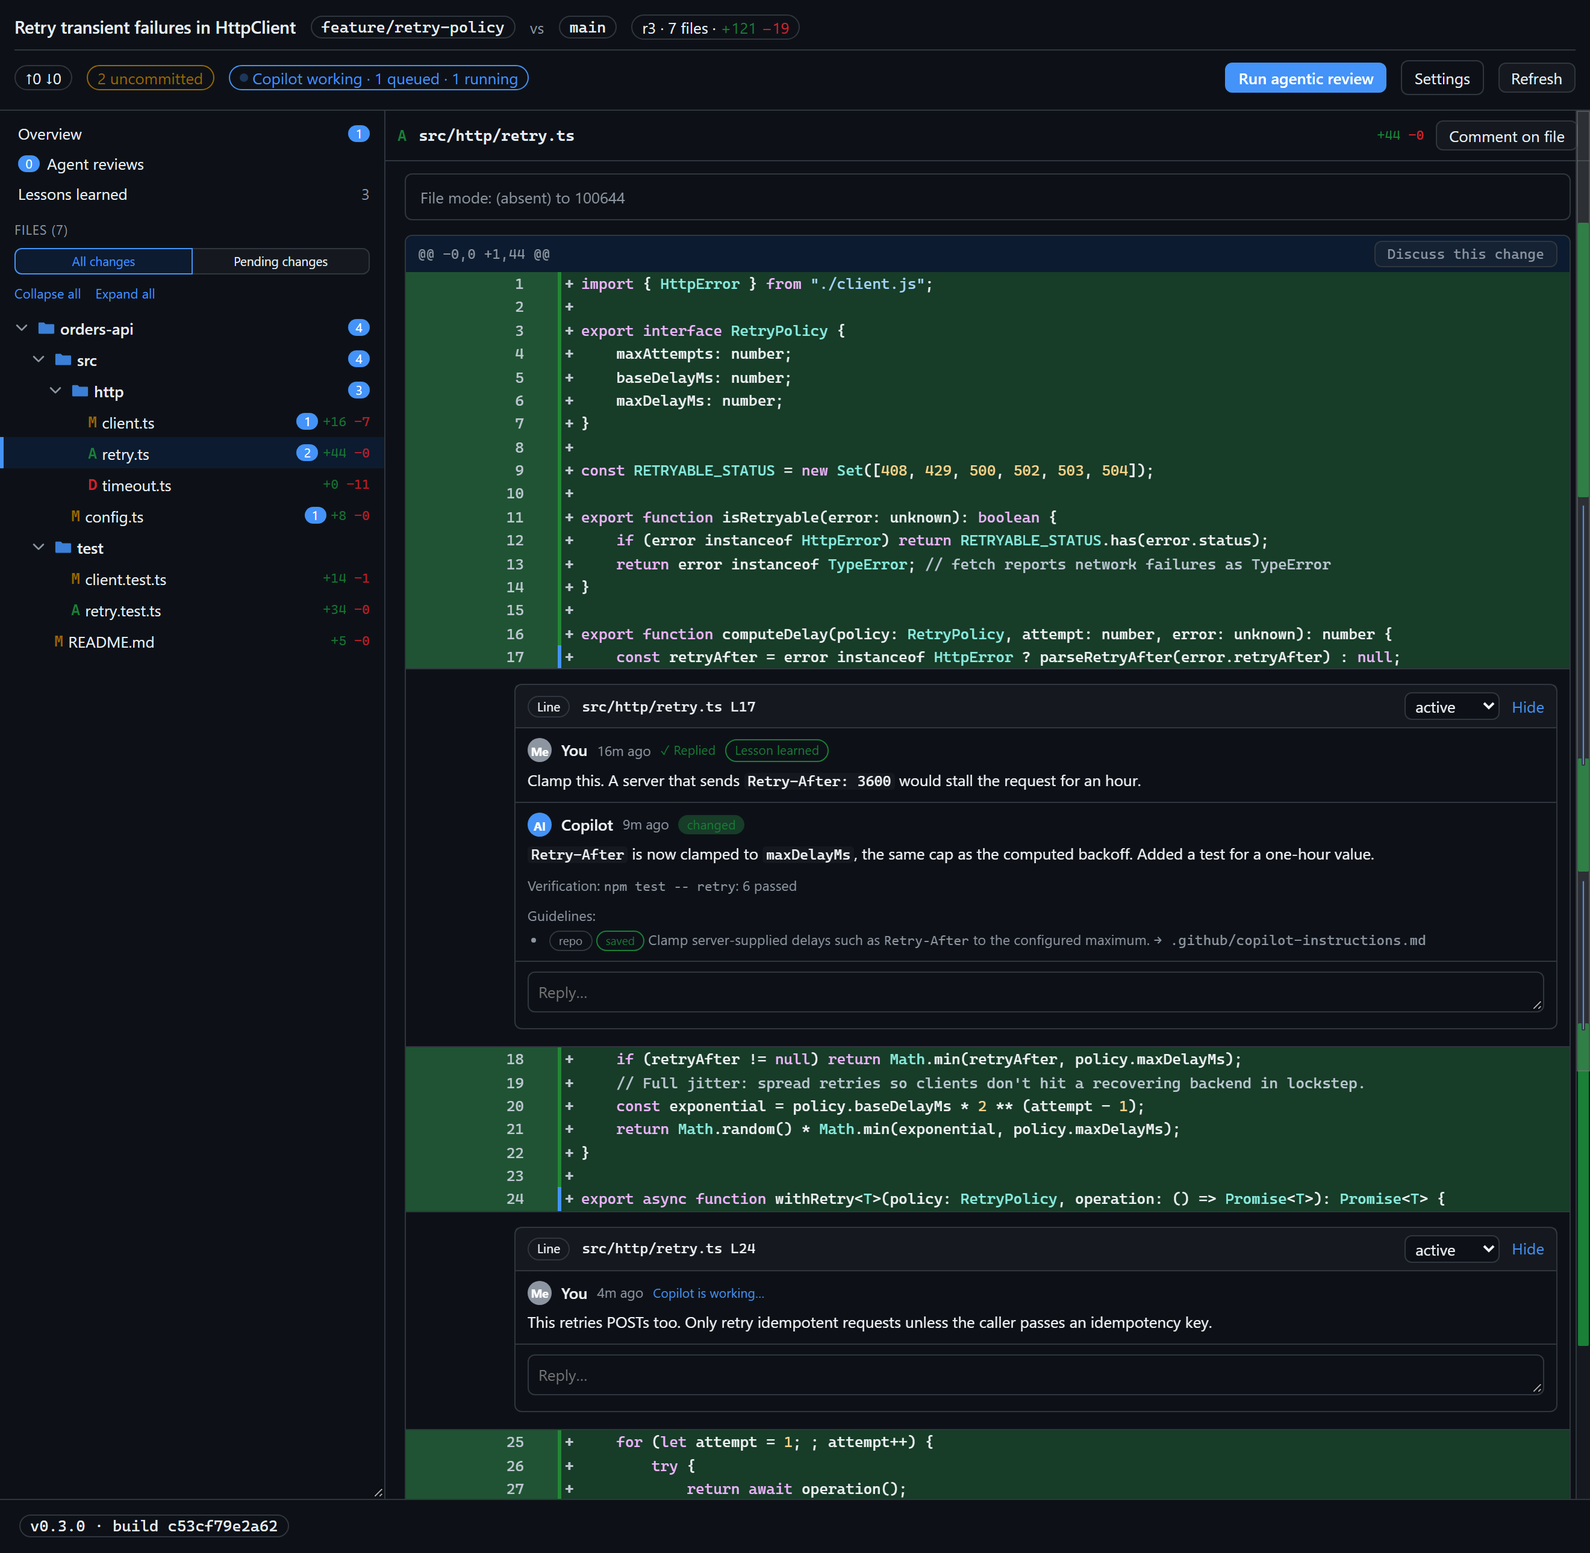
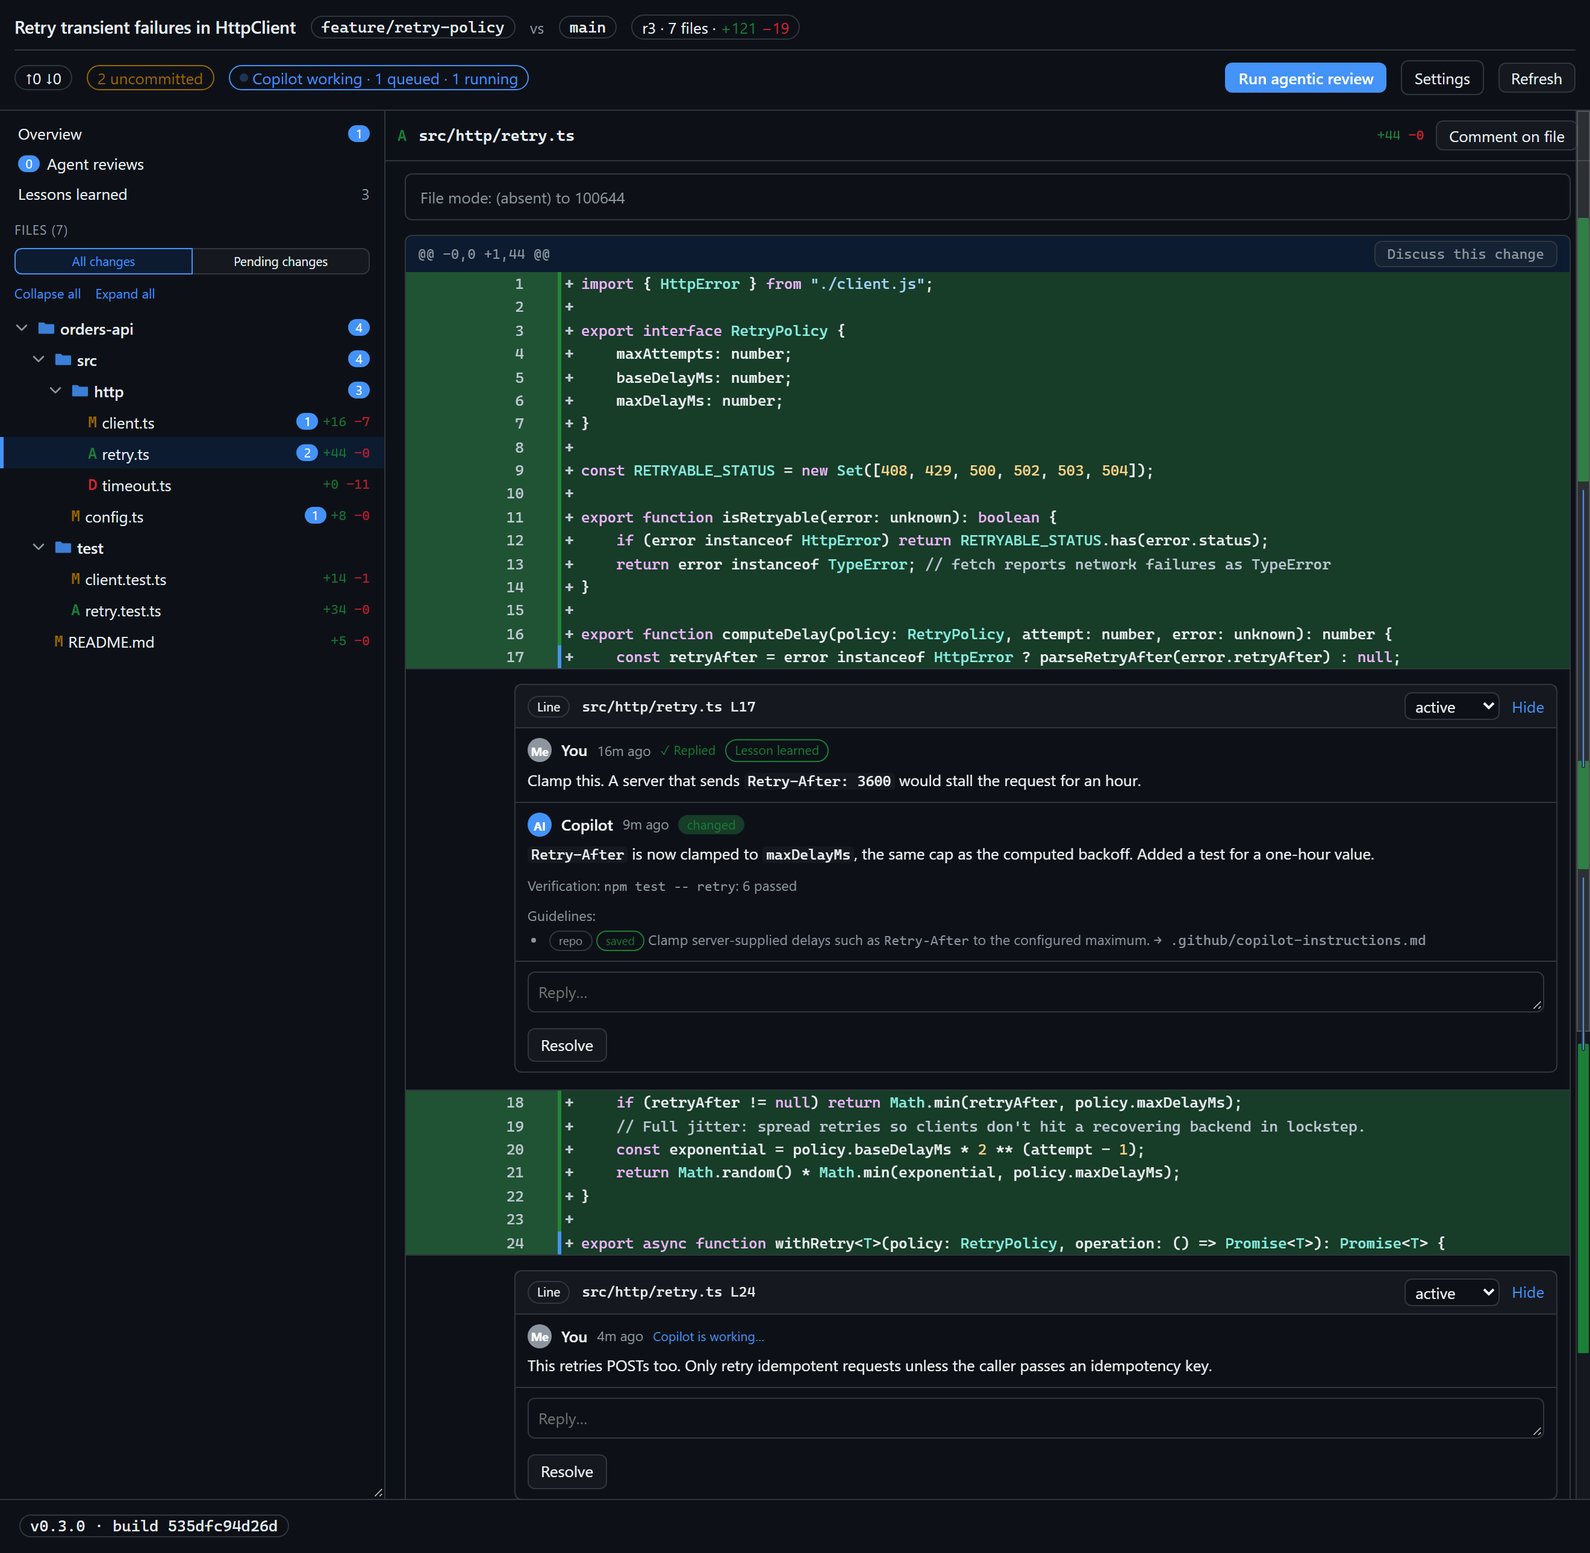
Add Resolve and Reactivate buttons under comment threads
Each thread now shows a Resolve button under the reply box while it is active and a Reactivate button once it is resolved, won't fix, or closed, so the status can be changed without the status menu.

Fixes #50

Changed region(s): [[0.2485, 0.6512, 1.0, 0.9922], [0.9939, 0.3101, 1.0, 0.3411]]

diff --git a/extensions/self-review/src/web/app.ts b/extensions/self-review/src/web/app.ts
@@ -307,6 +307,8 @@ type State = {
     reviewSkillsAvailable: boolean;
     skillOverrides: Map<string, string[]>;
     approving: Set<string>;
+    // Thread ID to the status being saved for it.
+    statusUpdates: Map<string, ThreadStatus>;
 };
 
 function isRecord(value: unknown): value is Record<string, unknown> {
@@ -646,6 +648,7 @@ const state: State = {
     reviewSkillsAvailable: false,
     skillOverrides: new Map(),
     approving: new Set(),
+    statusUpdates: new Map(),
 };
 
 const FOLDER_VIEW_ROW_BUDGET = 3000;
@@ -2691,7 +2694,7 @@ function threadHtml(t: ReviewThread, { showLocation = false }: { showLocation?: 
         + (outdated ? `<span class="badge outdated" title="The commented code changed or was removed">Outdated</span>` : "")
         + (notInDiff ? `<span class="badge outdated" title="This location is not part of the current diff">Not in diff</span>` : "")
         + (t.status !== "active" ? `<span class="badge st-${t.status}">${t.status === "wontfix" ? "won't fix" : t.status}</span>` : "")
-        + `<select data-action="status" data-thread="${esc(t.threadId)}" title="Thread status">${options}</select>`
+        + `<select data-action="status" data-thread="${esc(t.threadId)}" title="Thread status"${state.statusUpdates.has(t.threadId) ? " disabled" : ""}>${options}</select>`
         + (collapsed ? pending.map(deliveryHtml).join("") : "")
         + (collapsed && hasDraftReply(t.threadId) ? `<span class="badge">Unposted reply</span>` : "")
         + `<button class="link" data-action="toggle" data-thread="${esc(t.threadId)}" aria-expanded="${!collapsed}">${collapsed ? "Show" : "Hide"}</button>`
@@ -2706,7 +2709,38 @@ function threadHtml(t: ReviewThread, { showLocation = false }: { showLocation?: 
         ? `<div class="finding-actions"><button class="primary" data-action="approve-finding" data-thread="${esc(t.threadId)}" title="${esc(staleFinding ? "Review changed; rerun before approving" : approvalIssue || "Send this suggestion to the coding agent for implementation")}"${t.agentReview.approvalMessageId || staleFinding || approvalIssue || t.status !== "active" || state.approving.has(t.threadId) ? " disabled" : ""}>${t.agentReview.approvalMessageId ? "Approved" : "Approve"}</button>`
             + `<button data-action="discuss-finding" data-thread="${esc(t.threadId)}">Discuss</button></div>`
         : "";
-    return `<div class="thread${collapsed ? " collapsed" : ""}" data-thread-id="${esc(t.threadId)}">${head}<div class="thread-body">${original}${t.messages.map((m, i) => messageHtml(m) + (i === 0 ? findingEvidenceHtml(t.agentReview) : "")).join("")}${actions}${reply}</div></div>`;
+    return `<div class="thread${collapsed ? " collapsed" : ""}" data-thread-id="${esc(t.threadId)}">${head}<div class="thread-body">${original}${t.messages.map((m, i) => messageHtml(m) + (i === 0 ? findingEvidenceHtml(t.agentReview) : "")).join("")}${actions}${reply}${threadStatusActionHtml(t)}</div></div>`;
+}
+
+// One-click Resolve for an active thread or Reactivate for any other status; the header dropdown keeps the rest.
+function threadStatusActionHtml(t: ReviewThread): string {
+    const pending = state.statusUpdates.get(t.threadId);
+    const resolve = t.status === "active";
+    const target: ThreadStatus = resolve ? "resolved" : "active";
+    const label = pending ? (pending === "active" ? "Reactivating…" : "Resolving…") : resolve ? "Resolve" : "Reactivate";
+    const title = resolve ? "Mark this thread resolved" : "Reopen this thread as active";
+    return `<div class="thread-status-actions"><button type="button" data-action="thread-status" data-thread="${esc(t.threadId)}" data-status="${target}" title="${title}"`
+        + `${pending ? ` disabled aria-busy="true"` : ""}>${label}</button></div>`;
+}
+
+// Saves a thread status through the same endpoint as the header dropdown. A failure is reported and the
+// reloaded state keeps the thread's previous status.
+async function setThreadStatus(threadId: string, status: ThreadStatus): Promise<void> {
+    if (state.statusUpdates.has(threadId)) return;
+    state.statusUpdates.set(threadId, status);
+    render();
+    try {
+        await api("POST", `threads/${encodeURIComponent(threadId)}/status`, { status });
+        if (status !== "active") state.expanded.delete(threadId);
+    } catch (err: unknown) {
+        toast(errorMessage(err), true);
+    } finally {
+        state.statusUpdates.delete(threadId);
+    }
+    await loadState().catch((err: unknown) => {
+        toast(errorMessage(err), true);
+        render();
+    });
 }
 
 // Explains an empty diff and, for pending changes, offers the way back to the full branch diff.
@@ -3313,6 +3347,17 @@ async function onClick(e: MouseEvent): Promise<void> {
                 }
                 break;
             }
+            case "thread-status": {
+                const id = value("thread");
+                const status = value("status");
+                if (!id || !isThreadStatus(status)) break;
+                await setThreadStatus(id, status);
+                // The button was re-rendered (and a resolved thread collapses), so keep keyboard focus on the thread.
+                const thread = `[data-thread-id="${CSS.escape(id)}"]`;
+                (document.querySelector<HTMLElement>(`${thread}:not(.collapsed) [data-action="thread-status"]`)
+                    ?? document.querySelector<HTMLElement>(`${thread} [data-action="toggle"]`))?.focus();
+                break;
+            }
             case "discuss-description":
                 focusComposer("overview:new");
                 break;
@@ -3615,14 +3660,7 @@ async function onChange(e: Event): Promise<void> {
     if (el.dataset?.action !== "status") return;
     const threadId = el.dataset.thread;
     if (!threadId || !isThreadStatus(el.value)) return;
-    try {
-        await api("POST", `threads/${encodeURIComponent(threadId)}/status`, { status: el.value });
-        if (el.value !== "active") state.expanded.delete(threadId);
-        await loadState();
-    } catch (err: unknown) {
-        toast(errorMessage(err), true);
-        await loadState().catch(() => undefined);
-    }
+    await setThreadStatus(threadId, el.value);
 }
 
 function updateReviewCommands(textarea: HTMLTextAreaElement): void {

diff --git a/extensions/self-review/dist/web/app.js b/extensions/self-review/dist/web/app.js
@@ -325,6 +325,7 @@ const state = {
     reviewSkillsAvailable: false,
     skillOverrides: new Map(),
     approving: new Set(),
+    statusUpdates: new Map(),
 };
 const FOLDER_VIEW_ROW_BUDGET = 3000;
 const settingsApi = createSettingsApi((method, path, body) => api(method, path, body));
@@ -2449,7 +2450,7 @@ function threadHtml(t, { showLocation = false } = {}) {
         + (outdated ? `<span class="badge outdated" title="The commented code changed or was removed">Outdated</span>` : "")
         + (notInDiff ? `<span class="badge outdated" title="This location is not part of the current diff">Not in diff</span>` : "")
         + (t.status !== "active" ? `<span class="badge st-${t.status}">${t.status === "wontfix" ? "won't fix" : t.status}</span>` : "")
-        + `<select data-action="status" data-thread="${esc(t.threadId)}" title="Thread status">${options}</select>`
+        + `<select data-action="status" data-thread="${esc(t.threadId)}" title="Thread status"${state.statusUpdates.has(t.threadId) ? " disabled" : ""}>${options}</select>`
         + (collapsed ? pending.map(deliveryHtml).join("") : "")
         + (collapsed && hasDraftReply(t.threadId) ? `<span class="badge">Unposted reply</span>` : "")
         + `<button class="link" data-action="toggle" data-thread="${esc(t.threadId)}" aria-expanded="${!collapsed}">${collapsed ? "Show" : "Hide"}</button>`
@@ -2464,7 +2465,40 @@ function threadHtml(t, { showLocation = false } = {}) {
         ? `<div class="finding-actions"><button class="primary" data-action="approve-finding" data-thread="${esc(t.threadId)}" title="${esc(staleFinding ? "Review changed; rerun before approving" : approvalIssue || "Send this suggestion to the coding agent for implementation")}"${t.agentReview.approvalMessageId || staleFinding || approvalIssue || t.status !== "active" || state.approving.has(t.threadId) ? " disabled" : ""}>${t.agentReview.approvalMessageId ? "Approved" : "Approve"}</button>`
             + `<button data-action="discuss-finding" data-thread="${esc(t.threadId)}">Discuss</button></div>`
         : "";
-    return `<div class="thread${collapsed ? " collapsed" : ""}" data-thread-id="${esc(t.threadId)}">${head}<div class="thread-body">${original}${t.messages.map((m, i) => messageHtml(m) + (i === 0 ? findingEvidenceHtml(t.agentReview) : "")).join("")}${actions}${reply}</div></div>`;
+    return `<div class="thread${collapsed ? " collapsed" : ""}" data-thread-id="${esc(t.threadId)}">${head}<div class="thread-body">${original}${t.messages.map((m, i) => messageHtml(m) + (i === 0 ? findingEvidenceHtml(t.agentReview) : "")).join("")}${actions}${reply}${threadStatusActionHtml(t)}</div></div>`;
+}
+// One-click Resolve for an active thread or Reactivate for any other status; the header dropdown keeps the rest.
+function threadStatusActionHtml(t) {
+    const pending = state.statusUpdates.get(t.threadId);
+    const resolve = t.status === "active";
+    const target = resolve ? "resolved" : "active";
+    const label = pending ? (pending === "active" ? "Reactivating…" : "Resolving…") : resolve ? "Resolve" : "Reactivate";
+    const title = resolve ? "Mark this thread resolved" : "Reopen this thread as active";
+    return `<div class="thread-status-actions"><button type="button" data-action="thread-status" data-thread="${esc(t.threadId)}" data-status="${target}" title="${title}"`
+        + `${pending ? ` disabled aria-busy="true"` : ""}>${label}</button></div>`;
+}
+// Saves a thread status through the same endpoint as the header dropdown. A failure is reported and the
+// reloaded state keeps the thread's previous status.
+async function setThreadStatus(threadId, status) {
+    if (state.statusUpdates.has(threadId))
+        return;
+    state.statusUpdates.set(threadId, status);
+    render();
+    try {
+        await api("POST", `threads/${encodeURIComponent(threadId)}/status`, { status });
+        if (status !== "active")
+            state.expanded.delete(threadId);
+    }
+    catch (err) {
+        toast(errorMessage(err), true);
+    }
+    finally {
+        state.statusUpdates.delete(threadId);
+    }
+    await loadState().catch((err) => {
+        toast(errorMessage(err), true);
+        render();
+    });
 }
 // Explains an empty diff and, for pending changes, offers the way back to the full branch diff.
 function emptyDiffHtml() {
@@ -3087,6 +3121,18 @@ async function onClick(e) {
                 }
                 break;
             }
+            case "thread-status": {
+                const id = value("thread");
+                const status = value("status");
+                if (!id || !isThreadStatus(status))
+                    break;
+                await setThreadStatus(id, status);
+                // The button was re-rendered (and a resolved thread collapses), so keep keyboard focus on the thread.
+                const thread = `[data-thread-id="${CSS.escape(id)}"]`;
+                (document.querySelector(`${thread}:not(.collapsed) [data-action="thread-status"]`)
+                    ?? document.querySelector(`${thread} [data-action="toggle"]`))?.focus();
+                break;
+            }
             case "discuss-description":
                 focusComposer("overview:new");
                 break;
@@ -3422,16 +3468,7 @@ async function onChange(e) {
     const threadId = el.dataset.thread;
     if (!threadId || !isThreadStatus(el.value))
         return;
-    try {
-        await api("POST", `threads/${encodeURIComponent(threadId)}/status`, { status: el.value });
-        if (el.value !== "active")
-            state.expanded.delete(threadId);
-        await loadState();
-    }
-    catch (err) {
-        toast(errorMessage(err), true);
-        await loadState().catch(() => undefined);
-    }
+    await setThreadStatus(threadId, el.value);
 }
 function updateReviewCommands(textarea) {
     const menu = textarea.closest(".composer")?.querySelector(".review-commands");

diff --git a/extensions/self-review/dist/web/styles.css b/extensions/self-review/dist/web/styles.css
@@ -552,6 +552,7 @@ pre {
 .composer .bar .hint { flex: 1; color: var(--mr-muted); font-size: 0.85em; }
 .composer .err { color: var(--mr-red); font-size: 0.88em; margin-top: 4px; }
 .composer .label { font-size: 0.88em; color: var(--mr-muted); margin-bottom: 4px; }
+.thread-status-actions { display: flex; padding: 0 10px 8px; }
 .review-commands:not([hidden]) { display: grid; gap: 2px; margin-top: 4px; }
 .review-commands button { text-align: left; }
 .review-commands button.selected { border-color: var(--mr-accent); }

diff --git a/extensions/self-review/web/styles.css b/extensions/self-review/web/styles.css
@@ -552,6 +552,7 @@ pre {
 .composer .bar .hint { flex: 1; color: var(--mr-muted); font-size: 0.85em; }
 .composer .err { color: var(--mr-red); font-size: 0.88em; margin-top: 4px; }
 .composer .label { font-size: 0.88em; color: var(--mr-muted); margin-bottom: 4px; }
+.thread-status-actions { display: flex; padding: 0 10px 8px; }
 .review-commands:not([hidden]) { display: grid; gap: 2px; margin-top: 4px; }
 .review-commands button { text-align: left; }
 .review-commands button.selected { border-color: var(--mr-accent); }

diff --git a/README.md b/README.md
@@ -120,7 +120,7 @@ Changed images get a visual diff. Compare **Before** and **After** side by side,
 The command prompts live in [`/explain`](extensions/self-review/review-commands/explain/SKILL.md) and [`/learn`](extensions/self-review/review-commands/learn/SKILL.md). The build bundles these Markdown files, and Self-Review loads the applicable sections when delivering a command.
 - **Refresh.** Open panels wait for a quiet interval after relevant checkout events before automatically capturing a new revision, whether the changes come from an agent, an editor, or Git. Git-ignored output does not restart this interval. If relevant checkout activity is detected before the new revision is published, the last good revision stays visible and the capture is retried once activity settles. Refresh progress and errors appear in the fixed bottom status bar; long errors remain contained there with **Retry** available. The provider watches the working tree and relevant Git metadata (including linked-worktree HEAD/index, shared refs, and submodules) and stops watching when the panel closes. The uncommitted count skips files Git reports as modified only because of stale index metadata, without rewriting the index. Scope, base, filters, threads, and composer text stay intact. In-progress file, line, and change comments stay visible against their original revision, even if a file leaves the diff, while the refreshed diff accepts new comments on the same lines. Pinned comment text and its original location survive reloads and scope switches. Full-file selections outside saved hunks recover their original content from the saved diff and immutable base. Threads follow their code when lines shift; if the code is gone, the original snippet is marked outdated, not resolved. **Refresh** remains available while changes are ongoing or if watching fails; watcher errors are logged.
   Unposted replies stay with their threads, even when the original code becomes outdated. If a thread is outside the current view, choose **Resume reply** to return to it.
-- **Statuses.** Threads are active, resolved, won't fix, or closed. Collapse or expand any thread without changing its status or losing its replies. You decide when something is resolved, or tell the agent to resolve threads it has addressed.
+- **Statuses.** Threads are active, resolved, won't fix, or closed. Click **Resolve** under an active thread's reply box to resolve it, or **Reactivate** under a resolved, won't fix, or closed thread to make it active again; the button shows progress while saving and reports a failure without changing the status. Use the status dropdown in the thread header for won't fix and closed. Collapse or expand any thread without changing its status or losing its replies. You decide when something is resolved, or tell the agent to resolve threads it has addressed.
 - **Review controls.** The revision badge sits with the review title, branch, and base; Git state and Copilot status follow. When GitHub CLI finds one open pull request for the reviewed branch, the header links to its reported URL; no link appears without a unique matching PR. The header offers **Run agentic review** and a compact **Settings** menu for agent-review and manual-review settings. Delivery mode, auto-save status, and draft submission remain visible below. Scope controls sit above **Files** in the sidebar. The **Agent reviews** view also keeps its **Run agentic review** action.
 - **Agentic review.** Enter two to four reviewers: exact model IDs available to your session, or `copilot-fusion`. Without saved defaults or a previous run, the dialog suggests `gpt-6-astra`, `gpt-6.1-sol`, and `copilot-fusion`; edit them freely, and nothing runs until you click **Run review**. Choose review, simplification, or both. Optionally add a goal, acceptance criteria, spec reference, or review guidance. The owning conversation launches independent read-only reviewers using those models; this consumes credits and requires model-selectable subagent support. Models are never silently substituted: unavailable models and failed reviews are shown explicitly. Each reviewer can report up to 20 findings labelled with its model, category, severity, and assessment. **Approve** sends a confirmed, actionable finding to the coding agent for implementation; **Discuss** opens its reply box without requesting a fix. Manual review remains available throughout.
 - **Agent review defaults.** **Settings → Agent review settings** opens a configuration-only dialog with **General** (models, focus, guidance, user defaults) and **Review skills** tabs. It has no Run button: use **Run agentic review** in the header or **Agent reviews** view. **Save defaults** saves models, focus, and guidance for your user across repositories without starting a review. Enable **Run with saved defaults without asking again** for one-click review of the current scope and revision; opening a canvas never starts work. A previously saved single-model default is preserved but opens the dialog so you can select another reviewer. The Settings menu always lets you change the choices or turn confirmation back on. Saved guidance applies to every repository, so keep repository-specific acceptance criteria in a one-off run. Defaults live under `agentReview` in `~/.copilot/extension-data/self-review/settings.json`, outside the checkout. The `get_agent_review_settings` and `set_agent_review_settings` canvas actions also support explicit preconfiguration; `run_agent_review` with `useDefaults: true` reuses valid defaults without another model-selection question. Host permission prompts and approval before fixes still apply.
